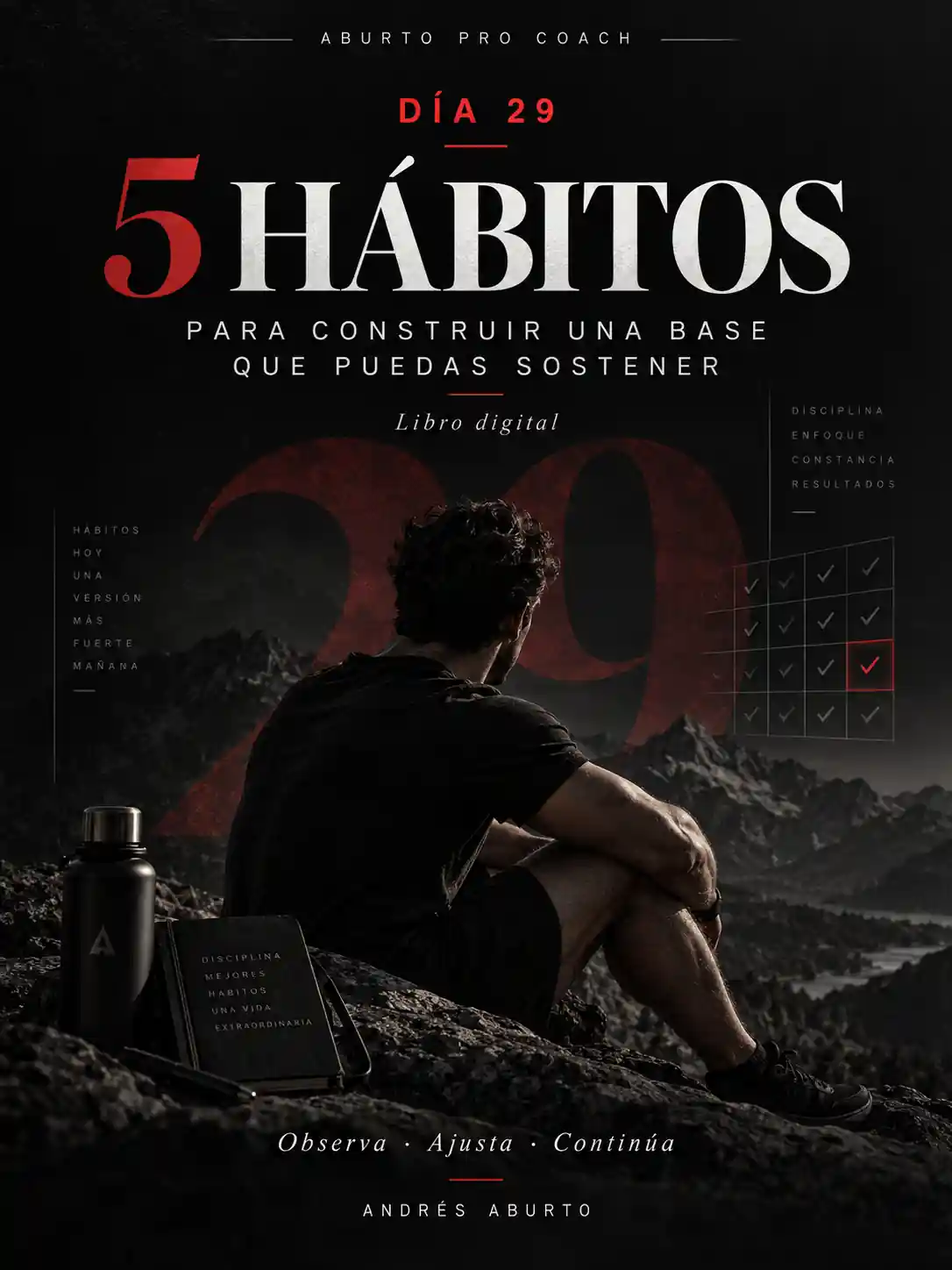
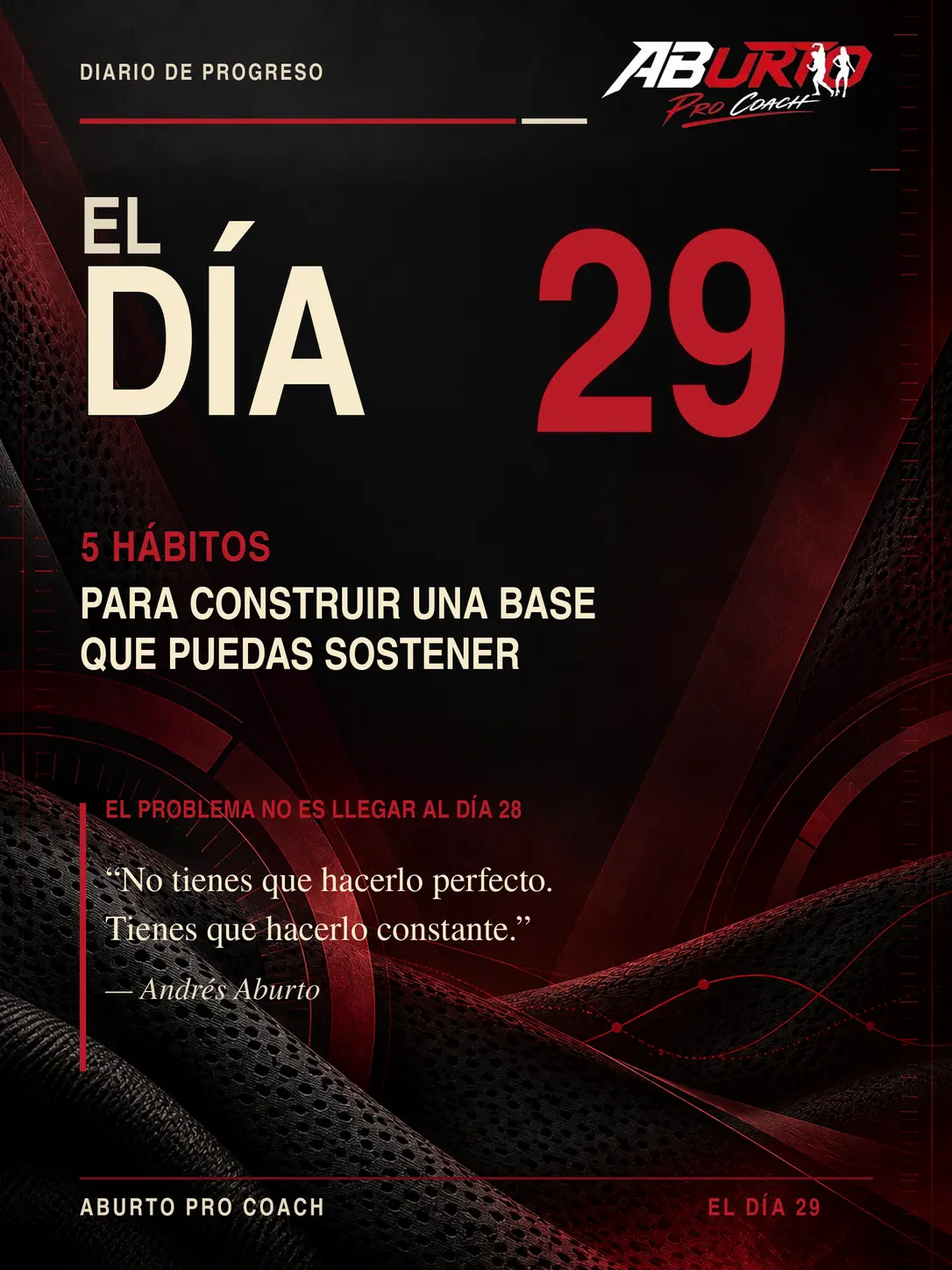
Rename 5 Hábitos to El Día 29

diff --git a/app.js b/app.js
@@ -1,5 +1,5 @@
 const $=(s,r=document)=>r.querySelector(s),$$=(s,r=document)=>[...r.querySelectorAll(s)];
-const productDescriptions={'5 Claves Antes de Competir':'libro digital para ordenar condición, posing, puesta a punto, logística y ejecución antes de competir','Día 29 · 5 Hábitos':'libro digital para construir hábitos sostenibles, criterio y continuidad más allá de la motivación','Romantizar la Prep':'recetario digital con 40 recetas base, técnicas de volumen, textura y sabor para una dieta de definición sin salirte del plan'};
+const productDescriptions={'5 Claves Antes de Competir':'libro digital para ordenar condición, posing, puesta a punto, logística y ejecución antes de competir','El Día 29':'libro digital para construir hábitos sostenibles, criterio y continuidad más allá de la motivación','Romantizar la Prep':'recetario digital con 40 recetas base, técnicas de volumen, textura y sabor para una dieta de definición sin salirte del plan'};
 const serviceDescriptions={
   'Coaching 1 a 1':'acompañamiento personalizado en línea por $2,830 MXN',
   'Bodybuilding Training System':'sistema online de entrenamiento por $3,140 MXN',
@@ -23,8 +23,8 @@ const chatLog=$('#chatLog'),quickReplies=$('#quickReplies'),chatForm=$('#chatFor
 function addMessage(text,who='bot',extraClass=''){const message=document.createElement('div');message.className=`message ${who} ${extraClass}`.trim();message.textContent=text;chatLog.appendChild(message);chatLog.scrollTop=chatLog.scrollHeight;if(!extraClass)state.history.push({role:who==='bot'?'assistant':'user',content:text});return message}
 function setReplies(options=[]){quickReplies.replaceChildren();options.forEach(option=>{const button=document.createElement('button');button.type='button';button.textContent=option;button.addEventListener('click',()=>answer(option));quickReplies.appendChild(button)})}
 function askCurrent(){if(state.step>=flow.length)return finishQualification();const current=flow[state.step];setTimeout(()=>{addMessage(current.question);setReplies(current.options);chatInput.placeholder=current.options.length?'O elige una respuesta…':'Escribe aquí…';chatInput.focus({preventScroll:true})},260)}
-function answer(value){const clean=String(value).trim().slice(0,500);if(!clean)return;addMessage(clean,'user');setReplies([]);if(state.profile.interest==='Productos digitales'&&state.step===1&&productDescriptions[clean]){state.profile.interest=clean;addMessage(`Perfecto. ${clean} es ${productDescriptions[clean]}.`);askCurrent();return}const current=flow[state.step];state.profile[current.key]=clean;state.step+=1;if(current.key==='interest'&&clean==='Productos digitales'){addMessage('La colección digital activa incluye “5 Claves Antes de Competir” por $320 MXN, “Día 29 · 5 Hábitos” por $526 MXN y “Romantizar la Prep” por $526 MXN.');setReplies(Object.keys(productDescriptions));return}if(current.key==='interest'&&serviceDescriptions[clean])addMessage(`Perfecto. ${clean} es ${serviceDescriptions[clean]}.`);askCurrent()}
-function recommendation(){const p=state.profile,target=`${p.interest} ${p.experience} ${p.modality}`.toLowerCase();if(target.includes('trainer presencial'))return'Trainer Presencial — $10,440 MXN';if(target.includes('coaching 1 a 1'))return'Coaching 1 a 1 online — $2,830 MXN';if(target.includes('bodybuilding'))return'Bodybuilding Training System — $3,140 MXN';if(target.includes('posing coaching'))return'Posing Coaching | Aburto Team — $2,620 MXN';if(target.includes('preparación para competencia'))return'Preparación para Competencia — $4,180 MXN';if(target.includes('5 claves'))return'5 Claves Antes de Competir — $320 MXN';if(target.includes('día 29')||target.includes('5 hábitos'))return'Día 29 · 5 Hábitos — $526 MXN';if(target.includes('romantizar'))return'Romantizar la Prep — $526 MXN';return'Conversación inicial para definir la mejor ruta'}
+function answer(value){const clean=String(value).trim().slice(0,500);if(!clean)return;addMessage(clean,'user');setReplies([]);if(state.profile.interest==='Productos digitales'&&state.step===1&&productDescriptions[clean]){state.profile.interest=clean;addMessage(`Perfecto. ${clean} es ${productDescriptions[clean]}.`);askCurrent();return}const current=flow[state.step];state.profile[current.key]=clean;state.step+=1;if(current.key==='interest'&&clean==='Productos digitales'){addMessage('La colección digital activa incluye “5 Claves Antes de Competir” por $320 MXN, “El Día 29” por $526 MXN y “Romantizar la Prep” por $526 MXN.');setReplies(Object.keys(productDescriptions));return}if(current.key==='interest'&&serviceDescriptions[clean])addMessage(`Perfecto. ${clean} es ${serviceDescriptions[clean]}.`);askCurrent()}
+function recommendation(){const p=state.profile,target=`${p.interest} ${p.experience} ${p.modality}`.toLowerCase();if(target.includes('trainer presencial'))return'Trainer Presencial — $10,440 MXN';if(target.includes('coaching 1 a 1'))return'Coaching 1 a 1 online — $2,830 MXN';if(target.includes('bodybuilding'))return'Bodybuilding Training System — $3,140 MXN';if(target.includes('posing coaching'))return'Posing Coaching | Aburto Team — $2,620 MXN';if(target.includes('preparación para competencia'))return'Preparación para Competencia — $4,180 MXN';if(target.includes('5 claves'))return'5 Claves Antes de Competir — $320 MXN';if(target.includes('día 29')||target.includes('5 hábitos'))return'El Día 29 — $526 MXN';if(target.includes('romantizar'))return'Romantizar la Prep — $526 MXN';return'Conversación inicial para definir la mejor ruta'}
 async function captureLead(){const fingerprint=JSON.stringify(state.profile);if(fingerprint===lastCapturedLead&&lastCaptureResult)return lastCaptureResult;lastCapturedLead=fingerprint;try{const response=await fetch('/api/lead',{method:'POST',headers:{'Content-Type':'application/json'},body:JSON.stringify(state.profile)});const data=await response.json().catch(()=>({}));lastCaptureResult={ok:response.ok,saved:data.saved===true,notifyEligible:data.notifyEligible===true,error:data.error||''};return lastCaptureResult}catch{lastCaptureResult={ok:false,saved:false,notifyEligible:false,error:'No se pudo conectar con el servidor.'};return lastCaptureResult}}
 function leadSummary(){const p=state.profile;return`Hola Andrés, soy ${p.name||'visitante del sitio'}.
 
@@ -38,7 +38,7 @@ Ruta sugerida por el asistente: ${recommendation()}
 Me gustaría conocer el alcance, disponibilidad y precio antes de comenzar.`}
 async function finishQualification(){const delivery=await captureLead();const direct=delivery.notifyEligible===true;addMessage(`Gracias, ${state.profile.name||'listo'}. Por lo que me compartiste, el siguiente paso sugerido es: ${recommendation()}.\n\n${direct?'Tu solicitud de coaching quedó registrada para atención directa con Andrés.':'Tu interés quedó registrado correctamente.'}`);const box=document.createElement('div');box.className='summary';const title=document.createElement('strong');title.textContent='RESUMEN DE TU SOLICITUD';const pre=document.createElement('pre');pre.textContent=leadSummary();const deliveryStatus=document.createElement('p');deliveryStatus.className='delivery-status';if(direct){deliveryStatus.textContent='Tu solicitud quedó registrada para seguimiento. El asistente no envía avisos por WhatsApp.'}else{deliveryStatus.textContent='Tu interés quedó registrado. Las alertas operativas se generan únicamente cuando Stripe confirma una compra.'}const actions=document.createElement('div');actions.className='summary-actions';const copy=document.createElement('button');copy.type='button';copy.textContent='Copiar resumen';copy.addEventListener('click',async()=>{try{await navigator.clipboard.writeText(leadSummary());showToast('Resumen copiado')}catch{showToast('Selecciona y copia el resumen manualmente')}});actions.append(copy);box.append(title,pre,deliveryStatus,actions);chatLog.appendChild(box);chatLog.scrollTop=chatLog.scrollHeight;setReplies([]);const again=document.createElement('button');again.type='button';again.textContent='Hacer otra consulta';again.addEventListener('click',resetChat);quickReplies.appendChild(again);chatInput.placeholder='También puedes hacer una pregunta libre…'}
 async function askAI(text){addMessage(text,'user');setReplies([]);const loading=addMessage('Analizando tu pregunta…','bot','loading');try{const response=await fetch('/api/chat',{method:'POST',headers:{'Content-Type':'application/json'},body:JSON.stringify({messages:state.history.slice(-10),profile:state.profile})});if(!response.ok)throw new Error('AI unavailable');const data=await response.json();loading.remove();addMessage(data.text||fallbackReply(text))}catch{loading.remove();addMessage(fallbackReply(text))}const button=document.createElement('button');button.type='button';button.textContent=state.step<flow.length?'Continuar con mi orientación':'Preparar mi solicitud';button.addEventListener('click',()=>state.step<flow.length?askCurrent():finishQualification());quickReplies.appendChild(button)}
-function fallbackReply(text){const value=text.toLowerCase();if(value.includes('precio')||value.includes('cuánto')||value.includes('costo'))return'Los precios actuales son: Coaching 1 a 1 online $2,830 MXN; Bodybuilding Training System $3,140 MXN; Trainer Presencial $10,440 MXN; Posing Coaching $2,620 MXN; Preparación para Competencia $4,180 MXN; y los productos digitales: 5 Claves $320 MXN, Día 29 · 5 Hábitos $526 MXN y Romantizar la Prep $526 MXN.';if(value.includes('trainer')||value.includes('presencial'))return'Trainer Presencial está disponible por $10,440 MXN con supervisión directa.';if(value.includes('compet')||value.includes('tarima'))return'La Preparación para Competencia cuesta $4,180 MXN. Para orientarte necesitamos experiencia, división, federación y fecha aproximada.';if(value.includes('posing')||value.includes('pose'))return'Posing Coaching | Aburto Team está disponible por $2,620 MXN. También puedes explorar Día 29 · 5 Hábitos y Romantizar la Prep desde la biblioteca digital.';if(value.includes('nutri')||value.includes('dieta'))return'La orientación nutricional requiere contexto individual. No te daré dosis ni protocolos aquí, pero puedo preparar una solicitud clara para que Andrés valore tu caso.';return'Puedo registrar tu elección entre Coaching 1 a 1, Bodybuilding Training System, Trainer Presencial, Posing Coaching, Preparación para Competencia o cualquiera de los tres libros digitales activos.'}
+function fallbackReply(text){const value=text.toLowerCase();if(value.includes('precio')||value.includes('cuánto')||value.includes('costo'))return'Los precios actuales son: Coaching 1 a 1 online $2,830 MXN; Bodybuilding Training System $3,140 MXN; Trainer Presencial $10,440 MXN; Posing Coaching $2,620 MXN; Preparación para Competencia $4,180 MXN; y los productos digitales: 5 Claves $320 MXN, El Día 29 $526 MXN y Romantizar la Prep $526 MXN.';if(value.includes('trainer')||value.includes('presencial'))return'Trainer Presencial está disponible por $10,440 MXN con supervisión directa.';if(value.includes('compet')||value.includes('tarima'))return'La Preparación para Competencia cuesta $4,180 MXN. Para orientarte necesitamos experiencia, división, federación y fecha aproximada.';if(value.includes('posing')||value.includes('pose'))return'Posing Coaching | Aburto Team está disponible por $2,620 MXN. También puedes explorar El Día 29 y Romantizar la Prep desde la biblioteca digital.';if(value.includes('nutri')||value.includes('dieta'))return'La orientación nutricional requiere contexto individual. No te daré dosis ni protocolos aquí, pero puedo preparar una solicitud clara para que Andrés valore tu caso.';return'Puedo registrar tu elección entre Coaching 1 a 1, Bodybuilding Training System, Trainer Presencial, Posing Coaching, Preparación para Competencia o cualquiera de los tres libros digitales activos.'}
 function resetChat(askFirst=true){state.step=0;state.profile=emptyProfile();state.history=[];lastCapturedLead='';lastCaptureResult=null;chatLog.replaceChildren();setReplies([]);addMessage('Hola. Soy el asistente de Aburto Pro Coach. Te ayudaré a encontrar el siguiente paso y a preparar tu solicitud en menos de dos minutos.');if(askFirst)askCurrent()}
 function startWithInterest(interest){$('#asistente')?.scrollIntoView({behavior:'smooth'});resetChat(false);setTimeout(()=>{state.profile.interest=interest;state.step=1;addMessage(interest,'user');const description=productDescriptions[interest]||serviceDescriptions[interest];if(description)addMessage(`Perfecto. ${interest} es ${description}. Voy a hacerte unas preguntas breves para registrar tu elección.`);setReplies([]);askCurrent()},500)}
 chatForm.addEventListener('submit',event=>{event.preventDefault();const value=chatInput.value.trim();if(!value)return;chatInput.value='';if(state.step<flow.length)answer(value);else askAI(value)});$('#restartChat').addEventListener('click',resetChat);$$('[data-start]').forEach(button=>button.addEventListener('click',()=>startWithInterest(button.dataset.start)));

diff --git a/index.html b/index.html
@@ -59,9 +59,9 @@
     <section class="section method"><div class="wrap"><div class="ey">03 / El proceso</div><h2>TU OBJETIVO.<br>UN CAMINO CON DIRECCIÓN.</h2><div class="steps"><div class="step reveal"><div class="num">01</div><h3>CONOCERTE.</h3><p>Objetivo, experiencia, contexto y disponibilidad.</p></div><div class="step reveal"><div class="num">02</div><h3>ORIENTARTE.</h3><p>Identificar el servicio o recurso que corresponde.</p></div><div class="step reveal"><div class="num">03</div><h3>EJECUTAR.</h3><p>Aplicar con consistencia, técnica y seguimiento.</p></div><div class="step reveal"><div class="num">04</div><h3>EVOLUCIONAR.</h3><p>Evaluar evidencia, aprender y ajustar.</p></div></div></div></section>
     <section class="section" id="trayectoria"><div class="wrap"><div class="tabs" role="tablist" aria-label="Facetas de Andrés"><button class="active" role="tab" aria-selected="true" data-img="assets/photos/andres-posing.png" data-title="CADA REPETICIÓN. CADA DETALLE." data-copy="Entrenamiento, práctica y atención a los detalles que transforman una preparación en presencia.">Entrenamiento</button><button role="tab" aria-selected="false" data-img="assets/photos/andres-tarima.png" data-title="DISCIPLINA EN LA TARIMA." data-copy="La preparación encuentra su expresión en cada pose, transición y decisión frente a los jueces.">Competencia</button><button role="tab" aria-selected="false" data-img="assets/photos/andres-trayectoria.png" data-title="UNA HISTORIA EN MOVIMIENTO." data-copy="Experiencia deportiva, trabajo con atletas y un método que continúa evolucionando.">Trayectoria</button></div><div class="story"><div class="photo-frame reveal" data-depth="0.025"><img id="storyImg" src="assets/photos/andres-posing.png" alt="Andrés Aburto entrenando y practicando posing"></div><div class="reveal"><div class="ey">Universo Aburto</div><h2 id="storyTitle">CADA REPETICIÓN.<br>CADA DETALLE.</h2><p id="storyCopy">Entrenamiento, práctica y atención a los detalles que transforman una preparación en presencia.</p><a class="btn alt" href="https://www.instagram.com/andrsaburto/" target="_blank" rel="noopener noreferrer">Ver trayectoria en Instagram <span>↗</span></a></div></div></div></section>
     <section class="section" id="herramientas"><div class="wrap"><div class="ey">Recursos gratuitos / Aburto Pro Coach</div><h2>TU SIGUIENTE PASO.<br>EMPIEZA AQUÍ.</h2><p>Calcula tu punto de partida sin registro o activa gratis el Posing Lab con tu nombre y un medio de contacto.</p><div id="freeTools"></div></div></section>
-    <section class="section products" id="productos"><div class="wrap"><div class="head reveal"><div><div class="ey">Biblioteca digital / Aburto Pro Coach</div><h2>TRES LIBROS.<br>TRES MOMENTOS DEL PROCESO.</h2></div><p>Competir con criterio, construir hábitos que sobrevivan al entusiasmo y aprender a disfrutar una definición exigente sin romper el plan.</p></div><div class="launch-note reveal"><b>COLECCIÓN ACTIVA</b><span>5 Claves · Día 29 / 5 Hábitos · Romantizar la Prep.</span></div><div class="product-grid">
+    <section class="section products" id="productos"><div class="wrap"><div class="head reveal"><div><div class="ey">Biblioteca digital / Aburto Pro Coach</div><h2>TRES LIBROS.<br>TRES MOMENTOS DEL PROCESO.</h2></div><p>Competir con criterio, construir hábitos que sobrevivan al entusiasmo y aprender a disfrutar una definición exigente sin romper el plan.</p></div><div class="launch-note reveal"><b>COLECCIÓN ACTIVA</b><span>5 Claves · El Día 29 · Romantizar la Prep.</span></div><div class="product-grid">
   <article class="product-card reveal product-live"><a class="product-art product-image" href="productos/5-claves.html" aria-label="Ver landing de 5 Claves Antes de Competir"><img src="assets/products/5-claves-antes-de-competir.webp" alt="Portada de 5 Claves Antes de Competir" loading="lazy" decoding="async"><span class="availability live">Disponible</span></a><div class="product-copy"><span class="tag">Libro digital · Competencia</span><h3>5 CLAVES ANTES<br>DE COMPETIR.</h3><p>Del prep al escenario: condición, posing, puesta a punto, logística y ejecución con menos improvisación.</p><ul><li>Readiness y ventanas de preparación</li><li>Checkpoints de condición y posing</li><li>Herramientas para llegar al show con variables resueltas</li></ul><div class="price-line"><strong>$320</strong><span>MXN · pago único</span></div><a class="btn" href="productos/5-claves.html">Conocer el libro <span>↗</span></a></div></article>
-  <article class="product-card reveal product-live"><a class="product-art product-image" href="productos/5-habitos.html" aria-label="Ver landing de Día 29, 5 hábitos"><img src="assets/products/5-habitos.webp" alt="Portada de Día 29 · 5 Hábitos" loading="lazy" decoding="async" width="1086" height="1448"><span class="availability live">Disponible</span></a><div class="product-copy"><span class="tag">Libro digital · Hábitos</span><h3>DÍA 29<br>5 HÁBITOS.</h3><p>No se trata de aguantar 28 días. Se trata de construir decisiones que puedas seguir tomando cuando la motivación cambia.</p><ul><li>Hábitos sostenibles y disciplina práctica</li><li>Observación, ajuste y continuidad</li><li>Un sistema para dejar de “empezar otra vez”</li></ul><div class="price-line"><strong>$526</strong><span>MXN · objetivo neto $500</span></div><a class="btn" href="productos/5-habitos.html">Conocer el libro <span>↗</span></a></div></article>
+  <article class="product-card reveal product-live"><a class="product-art product-image" href="productos/5-habitos.html" aria-label="Ver landing de El Día 29"><img src="assets/products/5-habitos.webp" alt="Portada de El Día 29" loading="lazy" decoding="async" width="1086" height="1448"><span class="availability live">Disponible</span></a><div class="product-copy"><span class="tag">Diario de progreso · Hábitos</span><h3>EL DÍA<br>29.</h3><p>El problema no es llegar al día 28. Es construir un sistema que siga funcionando cuando la motivación cambia y la vida vuelve a suceder.</p><ul><li>Observar patrones antes de juzgarte</li><li>Diseñar hábitos que se adapten a tu realidad</li><li>Ajustar y continuar sin empezar de cero</li></ul><div class="price-line"><strong>$526</strong><span>MXN · objetivo neto $500</span></div><a class="btn" href="productos/5-habitos.html">Conocer El Día 29 <span>↗</span></a></div></article>
   <article class="product-card reveal product-live"><a class="product-art product-image" href="productos/romantizar-la-prep.html" aria-label="Ver landing de Romantizar la Prep"><img src="assets/products/romantizar-la-prep.webp" alt="Portada de Romantizar la Prep" loading="lazy" decoding="async" width="1086" height="1448"><span class="availability live">Disponible</span></a><div class="product-copy"><span class="tag">Recetario digital · Definición</span><h3>ROMANTIZAR<br>LA PREP.</h3><p>Recetas, técnicas y estrategias para disfrutar una dieta de definición sin salirte del plan ni convertir cada comida en algo miserable.</p><ul><li>40 recetas base + variaciones</li><li>Volumen, textura, frío, especias y adaptación</li><li>La receta se adapta a tus porciones, no al revés</li></ul><div class="price-line"><strong>$526</strong><span>MXN · objetivo neto $500</span></div><a class="btn" href="productos/romantizar-la-prep.html">Conocer el recetario <span>↗</span></a></div></article>
 </div></div></section>
     <section class="section store" id="tienda"><div class="wrap"><div class="head reveal"><div><div class="ey">Tienda / Servicios</div><h2>ELIGE TU<br>SIGUIENTE NIVEL.</h2></div><p>Selecciona el servicio que corresponde a tu objetivo. El asistente te orienta y registra tu elección. Las notificaciones operativas se generan únicamente cuando Stripe confirma una compra.</p></div><div class="store-grid">

diff --git a/productos/5-habitos.html b/productos/5-habitos.html
@@ -1,1 +1,1 @@
-<!doctype html><html lang="es-MX"><head><meta charset="utf-8"><meta name="viewport" content="width=device-width,initial-scale=1"><title>Día 29 · 5 Hábitos | Aburto Pro Coach</title><meta name="description" content="Construye hábitos sostenibles, criterio y continuidad más allá de la motivación."><link rel="preconnect" href="https://fonts.googleapis.com"><link rel="preconnect" href="https://fonts.gstatic.com" crossorigin><link href="https://fonts.googleapis.com/css2?family=Barlow+Condensed:wght@500;700;800;900&family=DM+Sans:wght@400;500;600;700&display=swap" rel="stylesheet"><link rel="stylesheet" href="product-pages.css"><style>.habits-book{background:radial-gradient(circle at 70% 20%,#8d2430,transparent 28%),linear-gradient(145deg,#1b1b1f,#070707)}.habits-book b{color:#fff}.habits-book em{color:#ffb6bc}</style></head><body><header class="wrap top"><a href="../index.html"><img src="../assets/logo/aburto-original.png" alt="Aburto Pro Coach"></a><a class="back" href="../index.html#productos">← Biblioteca digital</a></header><main><section class="hero"><div class="wrap hero-grid"><div><div class="ey">Hábitos / Libro digital</div><h1><span>EL RETO</span><span>EMPIEZA</span><span>EN EL</span><span>DÍA 29.</span></h1><p>Un libro para quienes saben qué deberían hacer, pero necesitan convertir ese conocimiento en decisiones que puedan repetir cuando cambia la motivación, el horario o la vida.</p><div class="price"><strong>$526</strong><span>MXN · objetivo neto $500</span></div><div class="cta"><span class="btn pending">Checkout Stripe en activación</span><a class="btn alt" href="#contenido">Descubrir el método ↓</a></div></div><div class="book-image"><img src="../assets/products/5-habitos.webp" alt="Portada Día 29 · 5 Hábitos" width="1086" height="1448"></div></div></section><section class="section" id="contenido"><div class="wrap"><div class="ey">No otro reto de 28 días</div><h2>NO NECESITAS HACERLO PERFECTO.<br>NECESITAS CONTINUAR.</h2><div class="grid"><div class="card"><b>OBSERVAR</b><p>Entender por qué tomas ciertas decisiones y reconocer qué conductas te acercan o te alejan de tu objetivo.</p></div><div class="card"><b>AJUSTAR</b><p>Construir una estructura realista que funcione también cuando el trabajo, el sueño o los compromisos cambian.</p></div><div class="card"><b>CONTINUAR</b><p>Dejar de interpretar un tropiezo como el final del proceso y aprender a retomar sin destruir lo ya construido.</p></div></div><div class="quote"><strong>“¿ESTO FUNCIONA?” NO ES SUFICIENTE.</strong><p>La segunda pregunta es: “¿Puedo sostenerlo?”. Conseguir un resultado y aprender a mantenerlo son habilidades diferentes.</p></div></div></section></main><footer class="section footer-cta"><div class="wrap"><div class="ey">Aburto Pro Coach</div><h2>Día 29 · 5 Hábitos</h2><p>Construye hábitos sostenibles, criterio y continuidad más allá de la motivación.</p><div class="price"><strong>$526</strong><span>MXN · pago único</span></div><span class="btn pending">Checkout Stripe en activación</span><p class="note">Material educativo. No sustituye valoración médica, nutricional o profesional individualizada.</p></div></footer><span class="btn pending sticky">Checkout en activación · $526 MXN</span></body></html>
+<!doctype html><html lang="es-MX"><head><meta charset="utf-8"><meta name="viewport" content="width=device-width,initial-scale=1"><title>El Día 29 | Aburto Pro Coach</title><meta name="description" content="El reto termina. Aprende a observar, diseñar, ajustar y continuar con cinco hábitos que puedas sostener."><link rel="preconnect" href="https://fonts.googleapis.com"><link rel="preconnect" href="https://fonts.gstatic.com" crossorigin><link href="https://fonts.googleapis.com/css2?family=Barlow+Condensed:wght@500;700;800;900&family=DM+Sans:wght@400;500;600;700&display=swap" rel="stylesheet"><link rel="stylesheet" href="product-pages.css"><style>.habits-book{background:radial-gradient(circle at 70% 20%,#8d2430,transparent 28%),linear-gradient(145deg,#1b1b1f,#070707)}.habits-book b{color:#fff}.habits-book em{color:#ffb6bc}</style></head><body><header class="wrap top"><a href="../index.html"><img src="../assets/logo/aburto-original.png" alt="Aburto Pro Coach"></a><a class="back" href="../index.html#productos">← Biblioteca digital</a></header><main><section class="hero"><div class="wrap hero-grid"><div><div class="ey">Diario de progreso / Libro digital</div><h1><span>EL DÍA</span><span>29.</span><span>LO QUE HACES</span><span>DESPUÉS.</span></h1><p>El problema no es llegar al día 28. El reto real es construir decisiones que puedas seguir tomando cuando cambia la motivación, el horario o la vida.</p><div class="price"><strong>$526</strong><span>MXN · objetivo neto $500</span></div><div class="cta"><span class="btn pending">Checkout Stripe en activación</span><a class="btn alt" href="#contenido">Descubrir el método ↓</a></div></div><div class="book-image"><img src="../assets/products/5-habitos.webp" alt="Portada de El Día 29" width="1086" height="1448"></div></div></section><section class="section" id="contenido"><div class="wrap"><div class="ey">La verdadera prueba empieza después</div><h2>NO NECESITAS HACERLO PERFECTO.<br>NECESITAS APRENDER A CONTINUAR.</h2><div class="grid"><div class="card"><b>OBSERVAR</b><p>Entender por qué tomas ciertas decisiones y reconocer qué conductas te acercan o te alejan de tu objetivo.</p></div><div class="card"><b>DISEÑAR</b><p>Construir hábitos que se adapten a tu realidad, no una estructura perfecta que se rompe cuando la vida cambia.</p></div><div class="card"><b>CONTINUAR</b><p>Ajustar después de un mal día y retomar sin destruir todo lo que ya habías construido.</p></div></div><div class="quote"><strong>“¿ESTO FUNCIONA?” NO ES SUFICIENTE.</strong><p>La segunda pregunta es: “¿Puedo sostenerlo?”. El Día 29 no promete una transformación mágica. Te enseña a observar, evaluar y ajustar para seguir construyendo cuando la motivación deja de hacer el trabajo por ti.</p></div></div></section></main><footer class="section footer-cta"><div class="wrap"><div class="ey">Aburto Pro Coach</div><h2>EL DÍA 29</h2><p>5 hábitos para construir una base que puedas sostener.</p><div class="price"><strong>$526</strong><span>MXN · pago único</span></div><span class="btn pending">Checkout Stripe en activación</span><p class="note">Material educativo. No sustituye valoración médica, nutricional o profesional individualizada.</p></div></footer><span class="btn pending sticky">Checkout en activación · $526 MXN</span></body></html>

diff --git a/api/stripe-webhook.js b/api/stripe-webhook.js
@@ -32,7 +32,7 @@ const DIGITAL_DELIVERY = {
 const PRODUCT_NAMES = {
   '5-claves': '5 Claves Antes de Competir',
   '5-claves-antes-de-competir': '5 Claves Antes de Competir',
-  '5-habitos-dia-29': 'Día 29 · 5 Hábitos',
+  '5-habitos-dia-29': 'El Día 29',
   'romantizar-la-prep': 'Romantizar la Prep',
   'coaching-1a1-online': 'Coaching 1 a 1 — Online',
   'coaching-1-a-1-online': 'Coaching 1 a 1 — Online',
